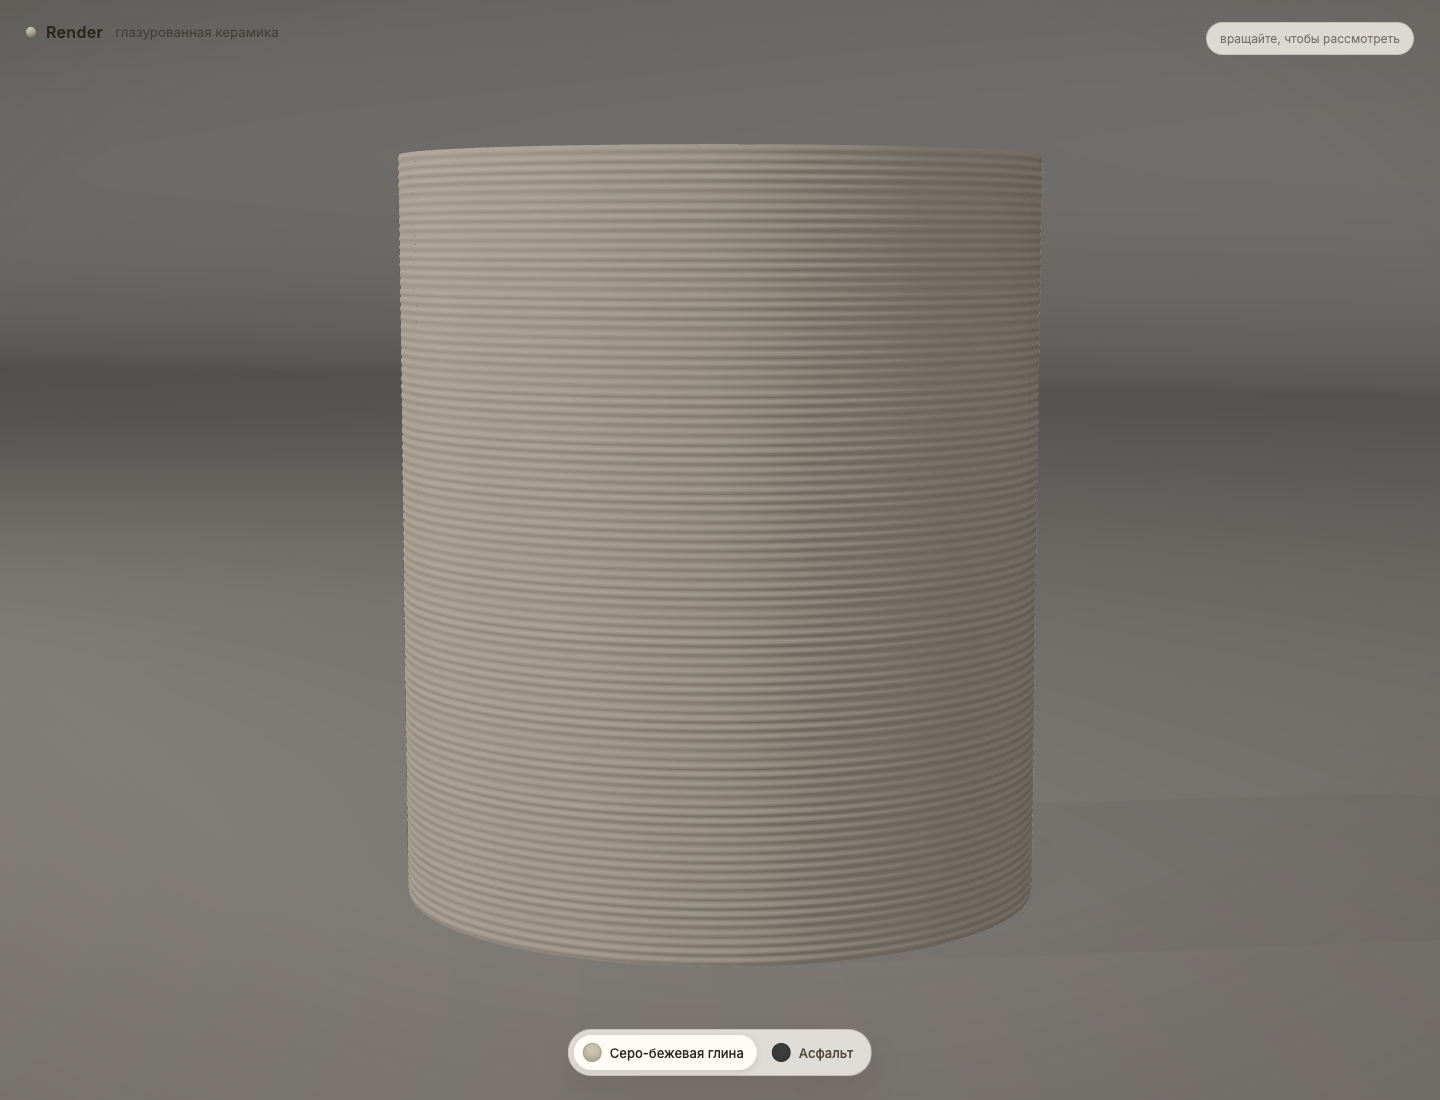
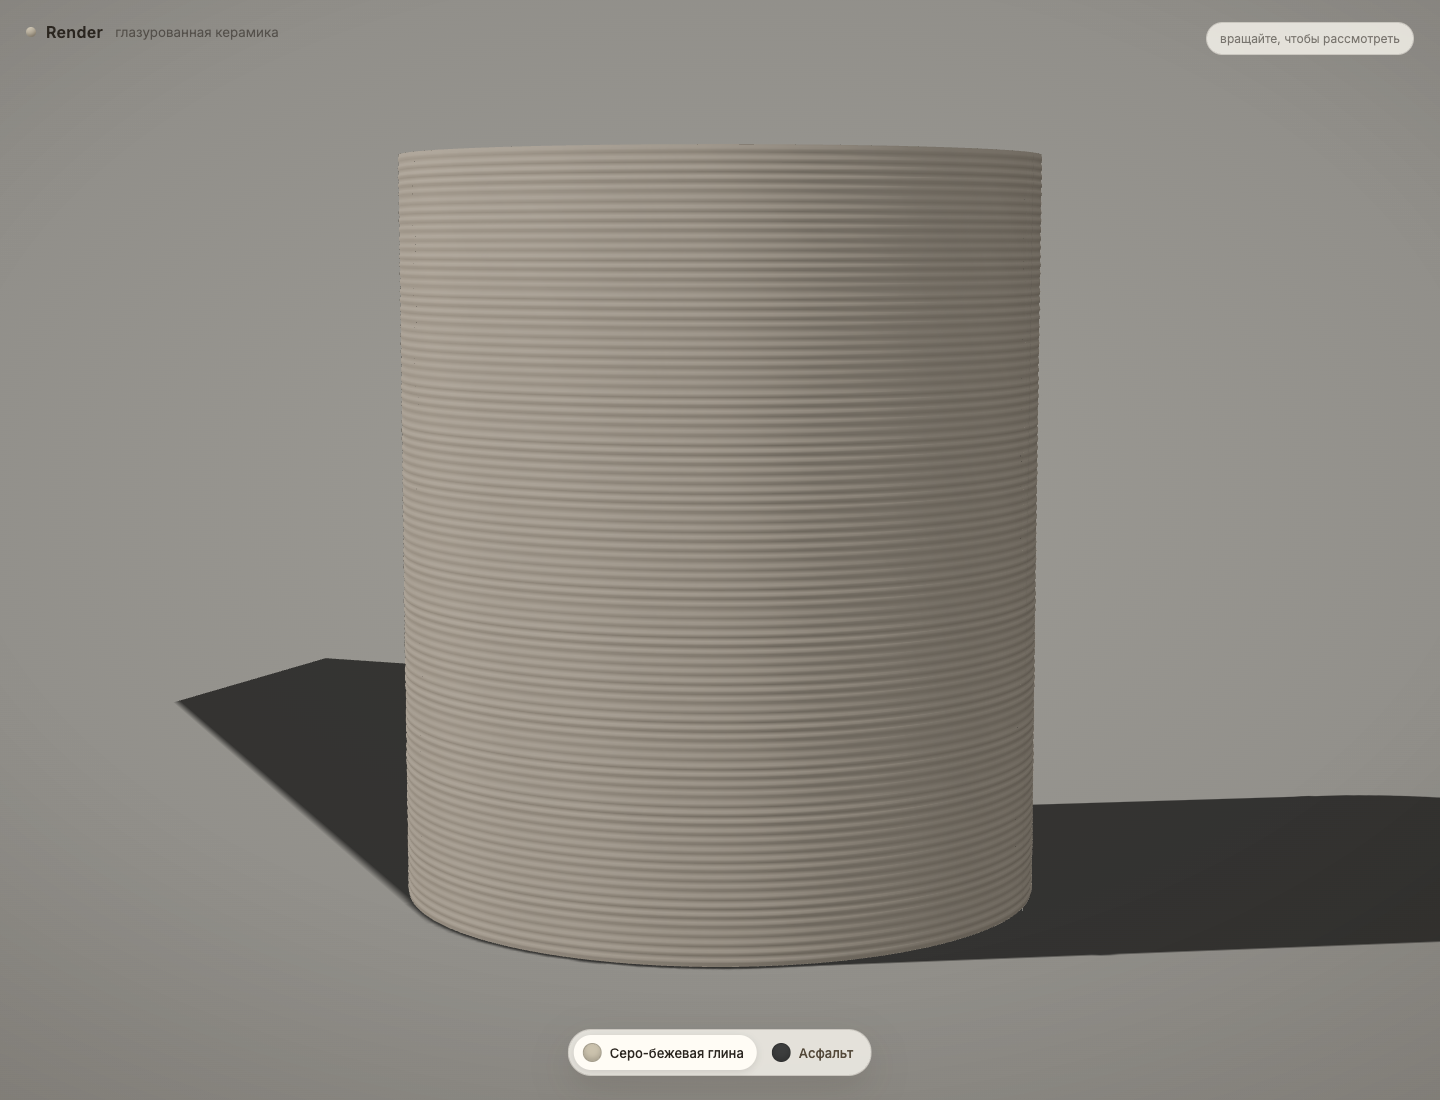
Remove visible floor/wall: transparent WebGL over seamless CSS gradient, invisible shadow catcher

diff --git a/src/main.js b/src/main.js
@@ -122,94 +122,20 @@ const cupGroup = new THREE.Group();
 cupGroup.scale.setScalar(1000); // GLB is metres; the studio works in millimetres.
 scene.add(cupGroup);
 
-/* ---------------- seamless curved cyclorama ---------------- */
+/* ---------------- seamless CSS studio backdrop ---------------- */
+/*
+ * The WebGL canvas is transparent. There is no floor/wall mesh at all, so no
+ * horizon or edge can appear. Real shadow maps are caught by an invisible
+ * ShadowMaterial plane, which darkens the CSS backdrop only where shadows fall.
+ */
 
-const cycloramaMat = new THREE.MeshStandardMaterial({
-  color: 0x9b9894,
-  roughness: 0.94,
-  metalness: 0,
-  vertexColors: true,
-  envMapIntensity: 0.12,
-});
-
-function buildCyclorama() {
-  // Cross-section (Y,Z): floor -> 90° fillet -> back wall, all one surface.
-  const floorFront = 1600;
-  const cornerStart = -1050;
-  const wallZ = -1350;
-  const filletR = 300;
-  const wallTop = 1700;
-  const halfWidth = 2300;
-  const xSegs = 5;
-  const pts = [];
-
-  // Floor samples.
-  const floorSegs = 36;
-  for (let i = 0; i <= floorSegs; i++) {
-    const t = i / floorSegs;
-    pts.push([floorFront + (cornerStart - floorFront) * t, 0]);
-  }
-  // Fillet: quarter circle centred at (cornerStart, 0), ending at back wall.
-  const filletSegs = 24;
-  for (let i = 1; i <= filletSegs; i++) {
-    const s = (i / filletSegs) * Math.PI * 0.5;
-    pts.push([cornerStart - filletR * Math.sin(s), filletR * (1 - Math.cos(s))]);
-  }
-  // Back wall.
-  const wallSegs = 26;
-  for (let i = 1; i <= wallSegs; i++) {
-    const t = i / wallSegs;
-    pts.push([wallZ, filletR + (wallTop - filletR) * t]);
-  }
-
-  const positions = [];
-  const colors = [];
-  const index = [];
-  // Lighting hits the horizontal floor harder than the back wall, so each
-  // profile point gets a soft baked light-response factor. No separate
-  // material or painted shadow: it is still one continuous cyclorama.
-  const ptFactor = new Array(pts.length).fill(0.9);
-  const floorCount = 1 + floorSegs;
-  for (let i = 0; i < floorCount; i++) ptFactor[i] = 0.44 + 0.08 * (i / floorSegs);
-  const wallStart = floorCount + filletSegs;
-  for (let i = 1; i <= filletSegs; i++) {
-    const t = i / filletSegs;
-    ptFactor[floorCount + i - 1] = 0.52 + 0.3 * t;
-  }
-  for (let i = 0; i < wallSegs; i++) {
-    ptFactor[wallStart + i] = 0.82 + 0.12 * (i / Math.max(1, wallSegs - 1));
-  }
-  for (let xi = 0; xi <= xSegs; xi++) {
-    const x = -halfWidth + (2 * halfWidth * xi) / xSegs;
-    for (let pi = 0; pi < pts.length; pi++) {
-      positions.push(x, pts[pi][1], pts[pi][0]);
-      const f = ptFactor[pi];
-      colors.push(f, f, f);
-    }
-  }
-  const stride = pts.length;
-  for (let xi = 0; xi < xSegs; xi++) {
-    for (let pi = 0; pi < stride - 1; pi++) {
-      const a = xi * stride + pi;
-      const b = (xi + 1) * stride + pi;
-      const c = (xi + 1) * stride + pi + 1;
-      const d = xi * stride + pi + 1;
-      index.push(a, b, c, a, c, d);
-    }
-  }
-
-  const geometry = new THREE.BufferGeometry();
-  geometry.setAttribute("position", new THREE.Float32BufferAttribute(positions, 3));
-  geometry.setAttribute("color", new THREE.Float32BufferAttribute(colors, 3));
-  geometry.setIndex(index);
-  geometry.computeVertexNormals();
-  const mesh = new THREE.Mesh(geometry, cycloramaMat);
-  mesh.receiveShadow = true;
-  mesh.frustumCulled = false;
-  scene.add(mesh);
-}
-
-buildCyclorama();
+const shadowCatcher = new THREE.Mesh(
+  new THREE.PlaneGeometry(260, 260).rotateX(-Math.PI / 2),
+  new THREE.ShadowMaterial({ opacity: 0.65 })
+);
+shadowCatcher.position.y = -0.15;
+shadowCatcher.receiveShadow = true;
+scene.add(shadowCatcher);
 
 /* ---------------- GLB loading ---------------- */
 

diff --git a/index.html b/index.html
@@ -27,7 +27,8 @@
         font-family: "Inter", system-ui, -apple-system, sans-serif;
         color: var(--ink);
         overflow: hidden;
-        background: #918f8b;
+        background:
+          radial-gradient(135% 115% at 50% 45%, #9d9b95 0%, #8f8d88 50%, #817f7b 100%);
       }
       #stage { position: fixed; inset: 0; }
       canvas { display: block; }
